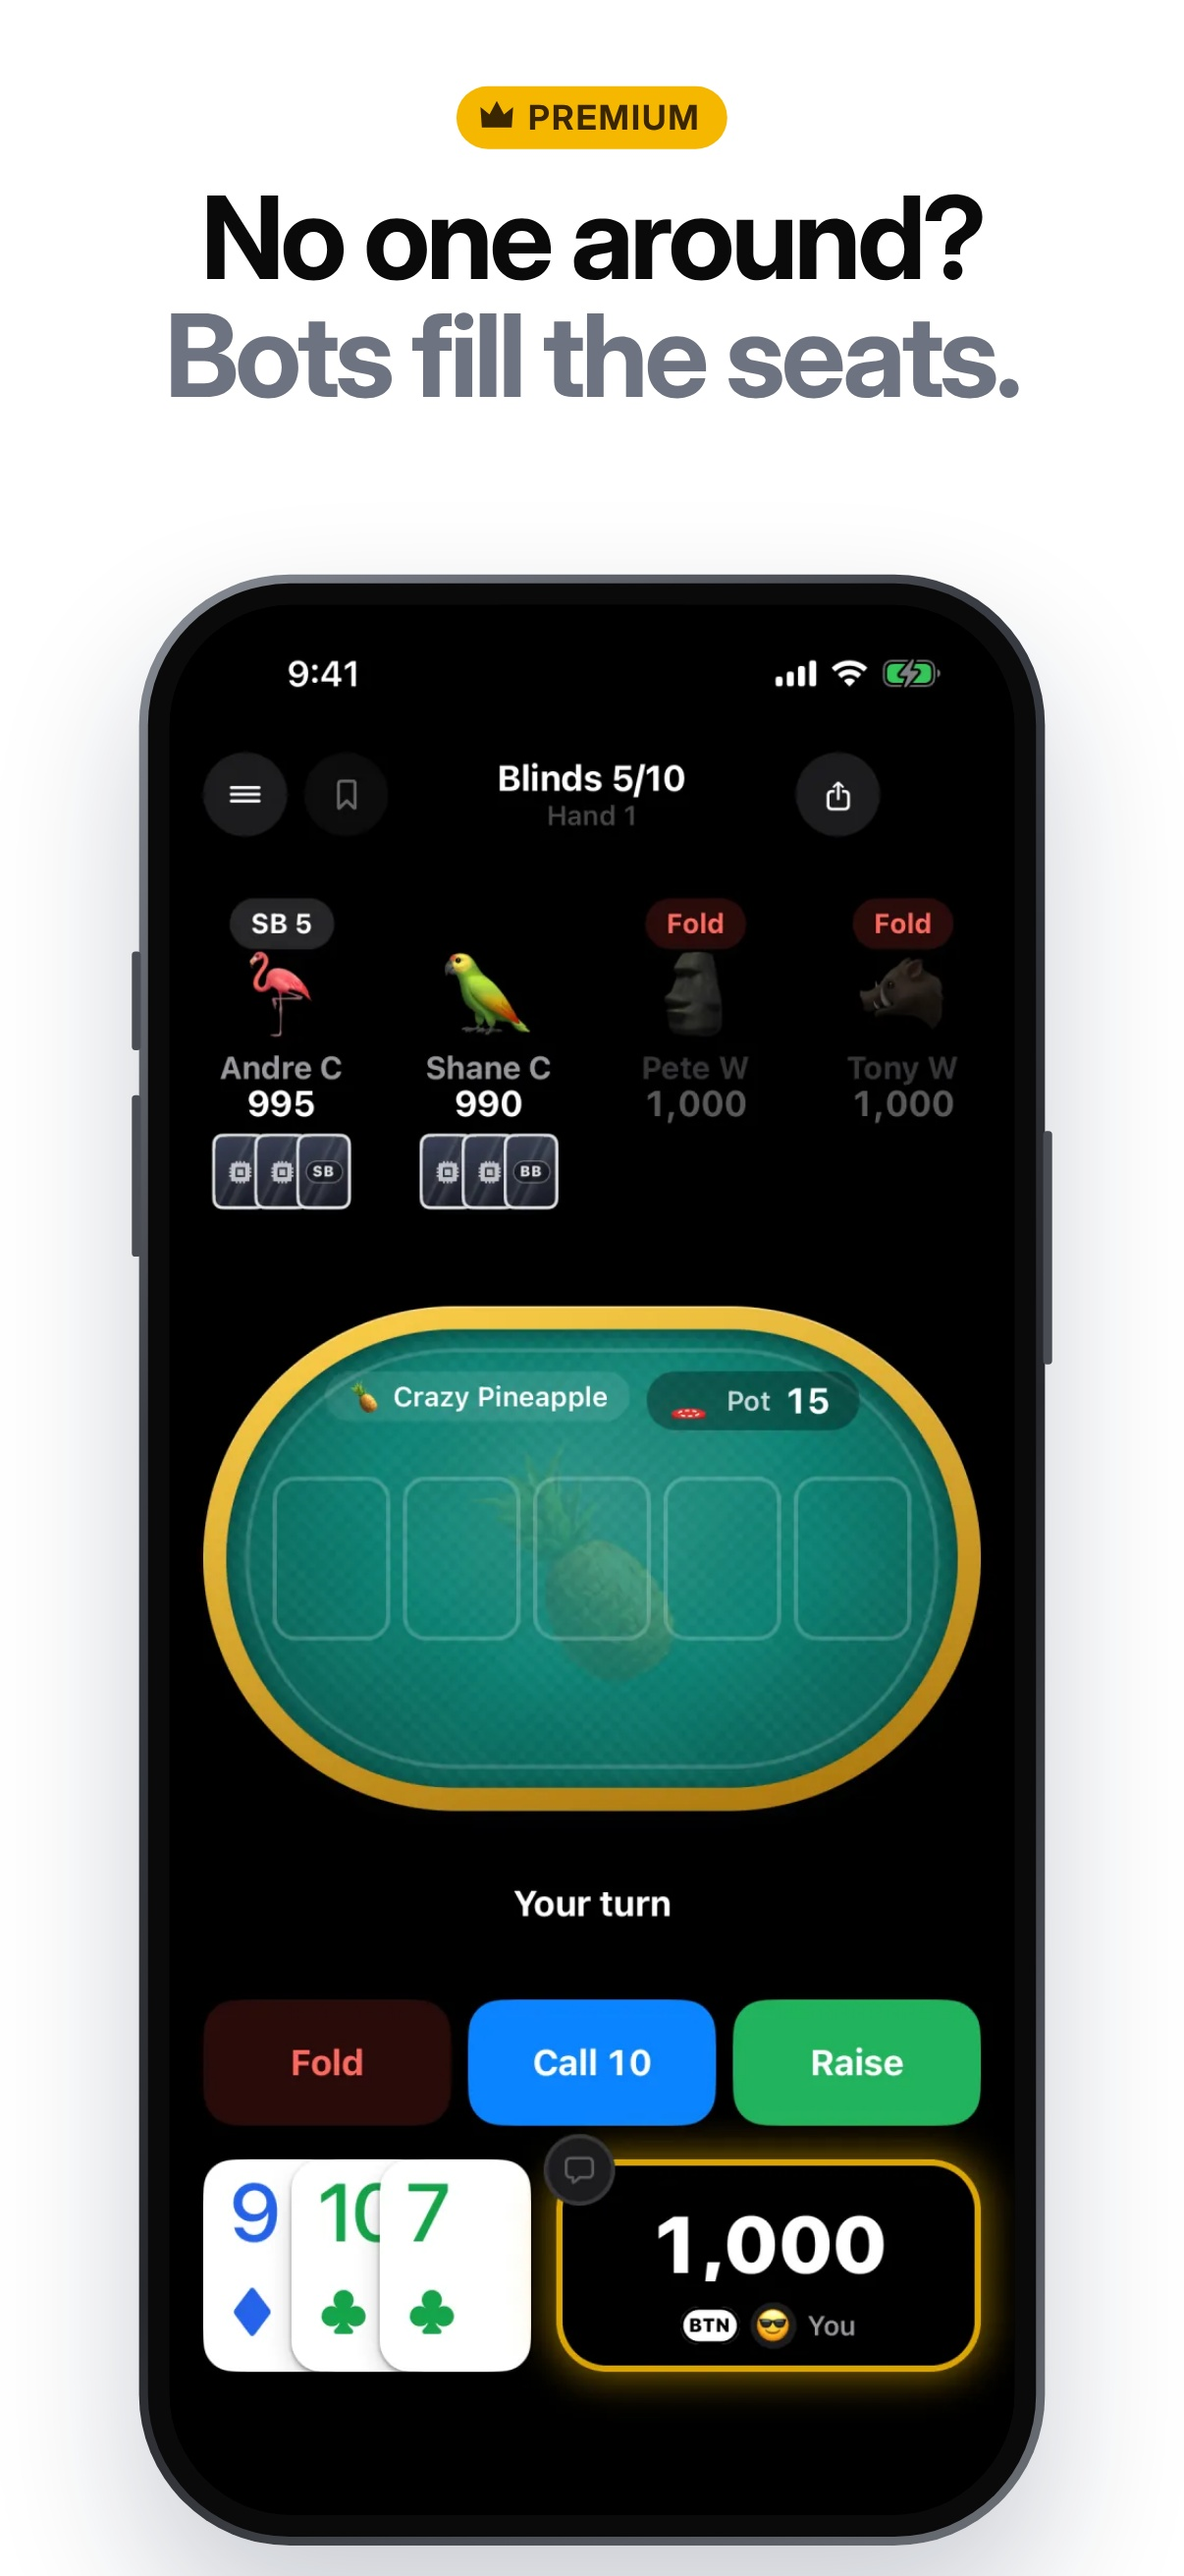
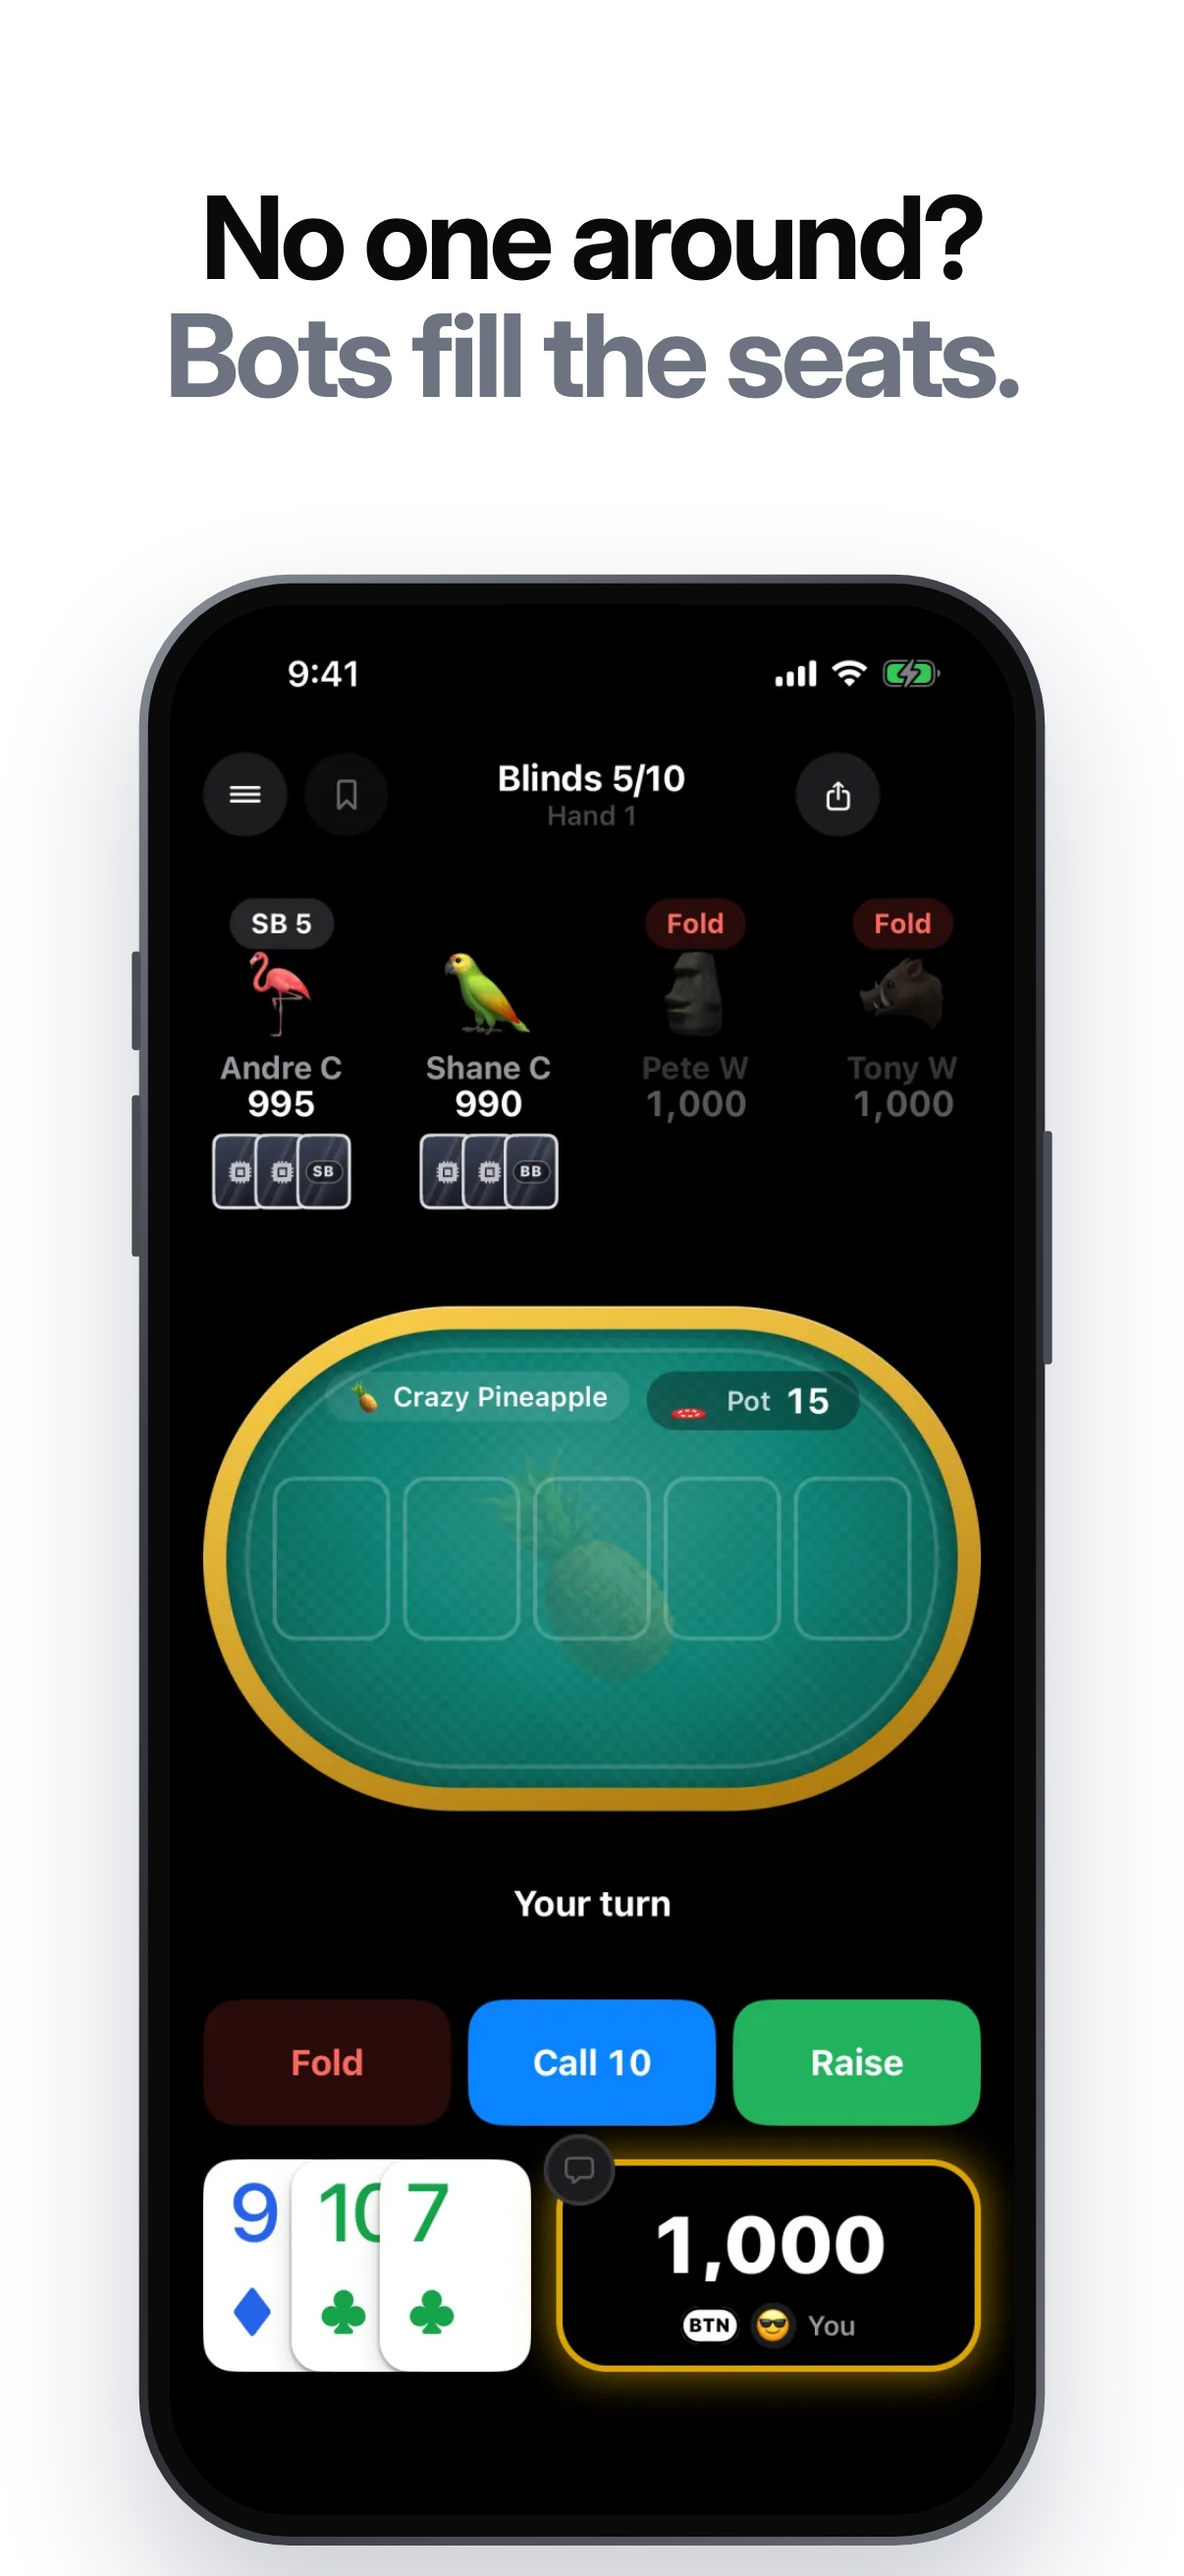
App Store screenshots: no Premium tag on the bots slide
The owner's call. The other Premium slides keep theirs.

Claude-Session: https://claude.ai/code/session_01JcRw4DA2eAJEZcdSqAcKC1

Changed region(s): [[0.3682, 0.0309, 0.6136, 0.0618]]

diff --git a/store/README.md b/store/README.md
@@ -16,7 +16,7 @@ allowed, so two slots are free (one is kept for the update that brings back the 
 5. Roll the die. Swap the river. (Die on the River; Premium tag)
 6. Bend the rules. Play a power card. (Power Cards, the Fold Tax panel pulled out; Premium tag)
 7. Make the right call. Built-in range trainer. See why, hand by hand. (the daily hand's Best play, free)
-8. No one around? Bots fill the seats. (a Crazy Pineapple table; Premium tag)
+8. No one around? Bots fill the seats. (a Crazy Pineapple table; no tag, the owner's call)
 
 A slide that shows a Premium game wears a small gold "Premium" tag with a crown above its headline (`premium()` in
 `slides.cjs`; the owner's call, 17 Nov 2026), so nobody downloads expecting every game free.
